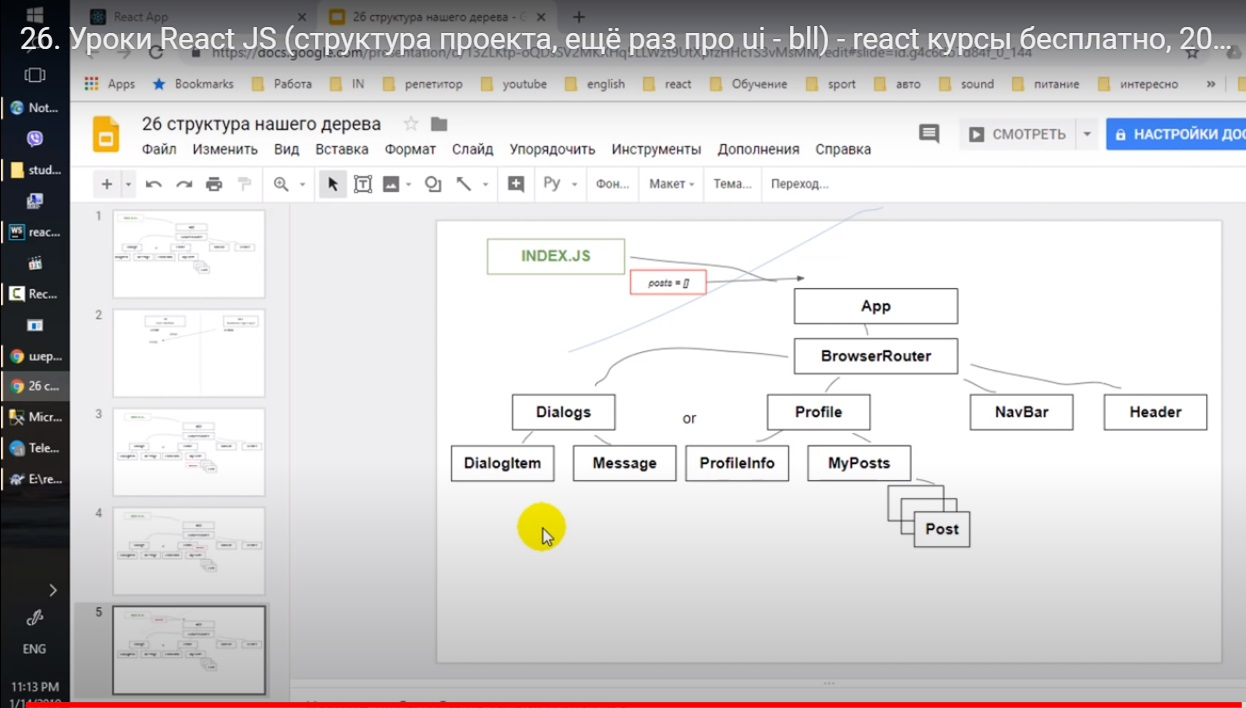
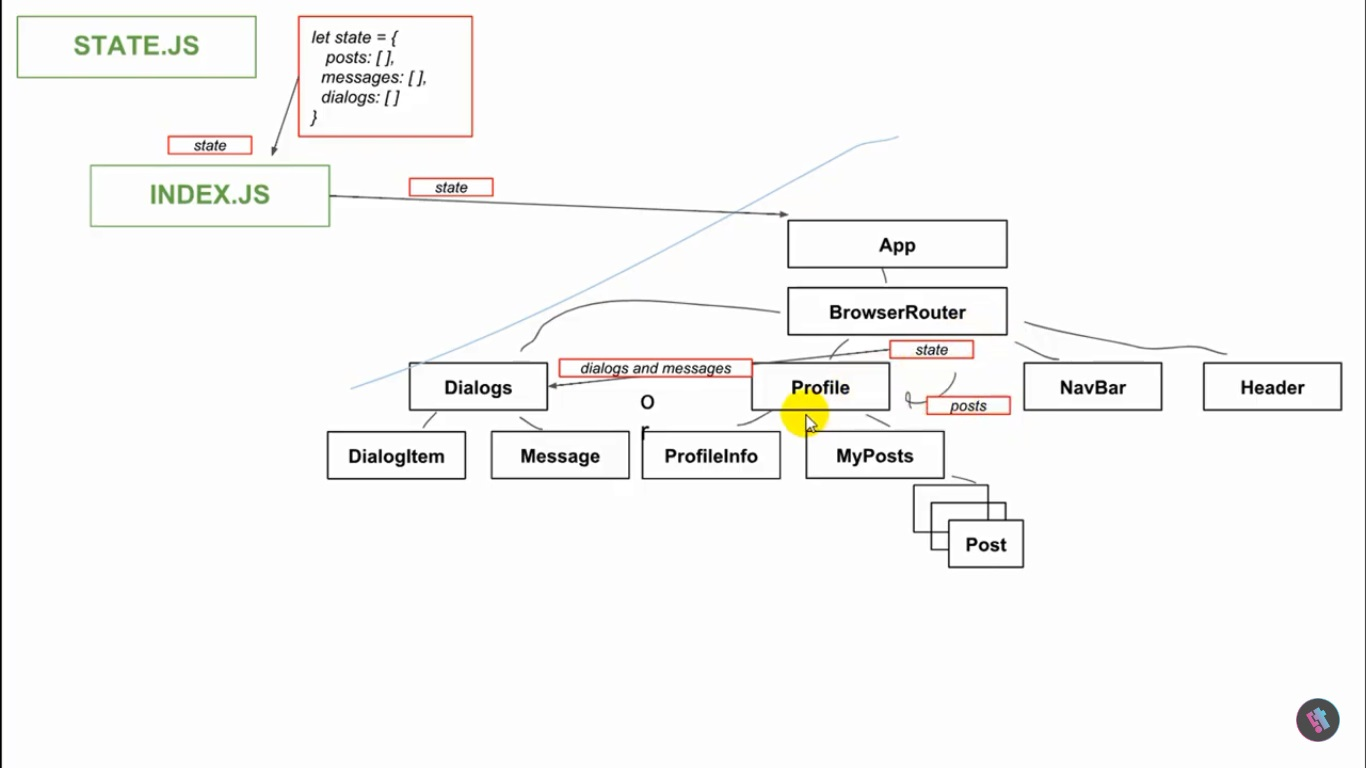
lesson 29 (упаковываем данные в state)

diff --git a/src/App.js b/src/App.js
@@ -10,27 +10,37 @@ import Music from "./components/Music/Music";
 import Settings from "./components/Settings/Settings";
 
 const App = (props) => {
-  // Можно и так попробовать, как вариант (потом сотрем)
-  let SomeComponent = () => <Profile posts={props.posts} />;
-
   return (
     <BrowserRouter>
       <div className="app-wrapper">
         <Header />
         <Navbar />
         <div className="app-wrapper-main">
-          {/* <Route path='/profile' component={Profile}/>
-          <Route path='/dialogs' component={Dialogs}/>
-          <Route path='/news' component={News}/>
-          <Route path='/music' component={Music}/>
-          <Route path='/settings' component={Settings}/> */}
+          
+          {/* можно так, но это не лучший вариант */}
 
-          <Route path="/profile" render={SomeComponent} />
+          {/* <Route
+            path="/profile"
+            render={() => <Profile posts={props.state.profilePage.posts} />}
+          />
           <Route
             path="/dialogs"
             render={() => (
-              <Dialogs messages={props.messages} dialogs={props.dialogs} />
+              <Dialogs
+                messages={props.state.dialogsPage.messages}
+                dialogs={props.state.dialogsPage.dialogs}
+              />
             )}
+          /> */}
+
+          {/* лучше так: */}
+          <Route
+            path="/profile"
+            render={() => <Profile state={props.state.profilePage} />}
+          />
+          <Route
+            path="/dialogs"
+            render={() => <Dialogs state={props.state.dialogsPage} />}
           />
           <Route path="/news" render={() => <News />} />
           <Route path="/music" render={() => <Music />} />

diff --git a/src/index.js b/src/index.js
@@ -3,31 +3,11 @@ import ReactDOM from "react-dom";
 import "./index.css";
 import App from "./App";
 import reportWebVitals from "./reportWebVitals";
-
-let dialogs = [
-  { id: 1, name: "Dima" },
-  { id: 2, name: "Nel" },
-  { id: 3, name: "Yura" },
-  { id: 4, name: "Oleg" },
-  { id: 5, name: "Natasha" },
-];
-
-let messages = [
-  { id: 1, message: "Hi" },
-  { id: 2, message: "How" },
-  { id: 3, message: "Yo" },
-  { id: 4, message: "Yo" },
-  { id: 5, message: "Yo" },
-];
-
-let posts = [
-  { id: 1, message: "Hi, how are you", likeCount: 5 },
-  { id: 2, message: "It's my first post", likeCount: 15 },
-];
+import state from './redux/state';
 
 ReactDOM.render(
   <React.StrictMode>
-    <App posts={posts} messages={messages} dialogs={dialogs} />
+    <App state={state} />
   </React.StrictMode>,
   document.getElementById("root")
 );

diff --git a/src/redux/state.js b/src/redux/state.js
@@ -1,0 +1,26 @@
+let state = {
+  profilePage: {
+    posts: [
+      { id: 1, message: "Hi, how are you", likeCount: 5 },
+      { id: 2, message: "It's my first post", likeCount: 15 },
+    ],
+  },
+  dialogsPage: {
+    messages: [
+      { id: 1, message: "Hi" },
+      { id: 2, message: "How" },
+      { id: 3, message: "Yo" },
+      { id: 4, message: "Yo" },
+      { id: 5, message: "Yo" },
+    ],
+    dialogs: [
+      { id: 1, name: "Dima" },
+      { id: 2, name: "Nel" },
+      { id: 3, name: "Yura" },
+      { id: 4, name: "Oleg" },
+      { id: 5, name: "Natasha" },
+    ],
+  },
+};
+
+export default state;

diff --git a/src/components/Dialogs/Dialogs.jsx b/src/components/Dialogs/Dialogs.jsx
@@ -5,10 +5,10 @@ import Message from "./Message/Message";
 
 const Dialogs = (props) => {
   
-  let DialogsElements = props.dialogs.map((d) => (
+  let DialogsElements = props.state.dialogs.map((d) => (
     <DialogItem name={d.name} id={d.id} />
   ));
-  let MessageElements = props.messages.map((m) => <Message message={m.message} />);
+  let MessageElements = props.state.messages.map((m) => <Message message={m.message} />);
   return (
     <div className={s.dialogs}>
       <div className={s.dialogsItems}>{DialogsElements}</div>

diff --git a/src/components/Profile/Profile.jsx b/src/components/Profile/Profile.jsx
@@ -7,7 +7,7 @@ const Profile = (props) => {
   return (
     <main>
       <ProfileInfo />
-      <MyPosts posts={props.posts} />
+      <MyPosts posts={props.state.posts} />
     </main>
   );
 };
